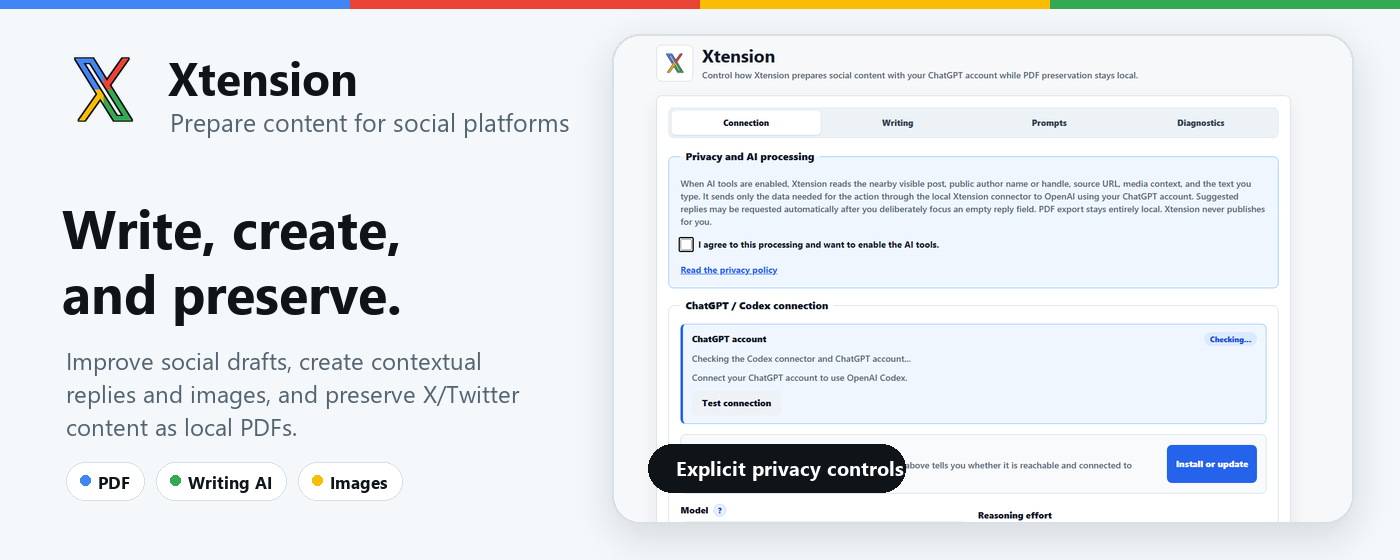
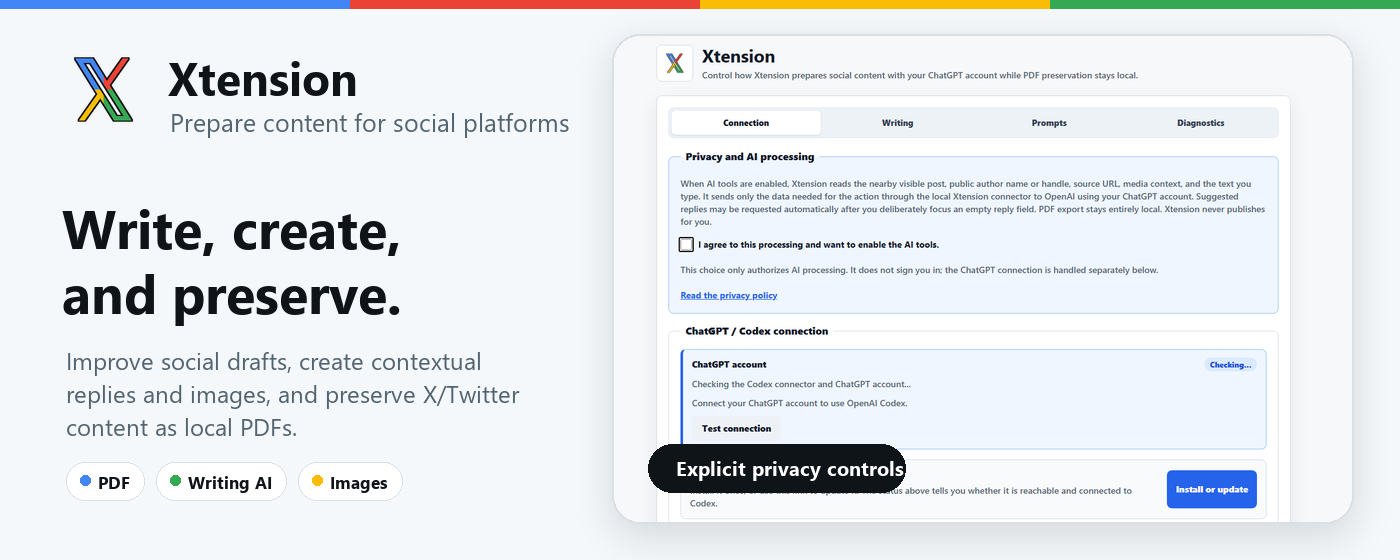
fix: separate X badges from AI consent

diff --git a/site/public/index.html b/site/public/index.html
@@ -53,7 +53,7 @@
         <div class="wrap">
           <p class="eyebrow">
             <span class="dot"></span>
-            <span data-i18n="heroEyebrow">Version 0.6.28 · Chrome · Edge · Firefox</span>
+            <span data-i18n="heroEyebrow">Version 0.6.29 · Chrome · Edge · Firefox</span>
           </p>
           <h1 data-i18n="heroTitle">
             Reply better across social platforms,<br />with your own ChatGPT account.
@@ -365,19 +365,19 @@
 
           <h3 class="group-title" data-i18n="dlStep1">1 · The browser extension</h3>
           <div class="dl-grid">
-            <a class="dl-card" href="https://github.com/JoDevelop1/xtension/releases/download/v0.6.28/xtension-chrome-v0.6.28.zip">
+            <a class="dl-card" href="https://github.com/JoDevelop1/xtension/releases/download/v0.6.29/xtension-chrome-v0.6.29.zip">
               <span class="dl-name">Chrome</span>
-              <span class="dl-meta" data-i18n="dlChromeMeta">Brave · Vivaldi · Opera · v0.6.28</span>
+              <span class="dl-meta" data-i18n="dlChromeMeta">Brave · Vivaldi · Opera · v0.6.29</span>
               <span class="dl-action" data-i18n="dlZip">Download .zip</span>
             </a>
-            <a class="dl-card" href="https://github.com/JoDevelop1/xtension/releases/download/v0.6.28/xtension-edge-v0.6.28.zip">
+            <a class="dl-card" href="https://github.com/JoDevelop1/xtension/releases/download/v0.6.29/xtension-edge-v0.6.29.zip">
               <span class="dl-name">Edge</span>
-              <span class="dl-meta">v0.6.28</span>
+              <span class="dl-meta">v0.6.29</span>
               <span class="dl-action" data-i18n="dlZip2">Download .zip</span>
             </a>
-            <a class="dl-card" href="https://github.com/JoDevelop1/xtension/releases/download/v0.6.28/xtension-firefox-v0.6.28.zip">
+            <a class="dl-card" href="https://github.com/JoDevelop1/xtension/releases/download/v0.6.29/xtension-firefox-v0.6.29.zip">
               <span class="dl-name">Firefox</span>
-              <span class="dl-meta">v0.6.28</span>
+              <span class="dl-meta">v0.6.29</span>
               <span class="dl-action" data-i18n="dlZip3">Download .zip</span>
             </a>
           </div>
@@ -415,7 +415,7 @@
           </p>
           <a class="btn btn-primary btn-lg" href="https://github.com/JoDevelop1/xtension/releases/latest/download/XtensionBridgeSetup.exe">
             <span data-i18n="dlConnectorBtn">Download XtensionBridgeSetup.exe</span>
-            <span class="btn-sub" data-i18n="dlConnectorBtnSub">Windows · v0.6.28 · from GitHub</span>
+            <span class="btn-sub" data-i18n="dlConnectorBtnSub">Windows · v0.6.29 · from GitHub</span>
           </a>
 
           <div class="checksums">
@@ -437,21 +437,21 @@
                   <td><code>3fd05664d0c76f4dac998e3187549a0200b43dab5335c6f814ef5a6134894471</code></td>
                 </tr>
                 <tr>
-                  <td>xtension-chrome-v0.6.28.zip</td>
+                  <td>xtension-chrome-v0.6.29.zip</td>
                   <td><code>f806e089bde166f6ffde99836098e4d6cd56c16d6f1f03b27abb6b7467bae32a</code></td>
                 </tr>
                 <tr>
-                  <td>xtension-edge-v0.6.28.zip</td>
+                  <td>xtension-edge-v0.6.29.zip</td>
                   <td><code>f806e089bde166f6ffde99836098e4d6cd56c16d6f1f03b27abb6b7467bae32a</code></td>
                 </tr>
                 <tr>
-                  <td>xtension-firefox-v0.6.28.zip</td>
+                  <td>xtension-firefox-v0.6.29.zip</td>
                   <td><code>0cc362f1aea179f586a4525df0bcefdcacc2fc2e56e8d53308a1d52d1d188d98</code></td>
                 </tr>
               </tbody>
             </table>
             <p class="fineprint">
-              <a href="https://github.com/JoDevelop1/xtension/releases/download/v0.6.28/SHA256SUMS.txt" data-i18n="checksumRaw">Raw checksum file</a>
+              <a href="https://github.com/JoDevelop1/xtension/releases/download/v0.6.29/SHA256SUMS.txt" data-i18n="checksumRaw">Raw checksum file</a>
               ·
               <a href="/version.json" data-i18n="versionJson">version.json</a>
             </p>

diff --git a/site/public/privacy.html b/site/public/privacy.html
@@ -23,7 +23,8 @@
         <p>Xtension does not sell data, use data for advertising or creditworthiness, or send data to a server owned by the developer. The extension has no analytics or tracking SDK. Optional AI features transmit the required request data to OpenAI through a connector on the user's computer.</p>
 
         <h2>Consent and control</h2>
-        <p>AI processing is disabled by default. Before supported-page content, a draft, URL, author identifier, relationship context, or image is processed for AI features, the user must affirmatively accept the disclosure in Xtension's options and enable the AI tools. Consent can be withdrawn at any time.</p>
+        <p>AI processing is disabled by default. Before supported-page content, a draft, URL, author identifier, or image is processed for AI features, the user must affirmatively accept the disclosure in Xtension's options and enable the AI tools. Consent can be withdrawn at any time.</p>
+        <p>Accepting this disclosure does not sign the user into ChatGPT. Account authentication is a separate optional step handled by the local connector and the official OpenAI sign-in flow; Xtension never receives the user's password or OAuth token.</p>
         <p>After consent, Xtension may request contextual reply suggestions when the user deliberately focuses an empty supported reply field. Other AI operations start when the user chooses an Xtension action. Results remain editable drafts; Xtension never activates a platform's final publish control.</p>
         <p>PDF export requires no AI consent, runs locally in the browser, and is never sent to OpenAI or the developer.</p>
 
@@ -32,7 +33,7 @@
           <li><strong>Website content:</strong> visible posts, comments, articles, quoted content, same-author threads, drafts, instructions, public images, and video thumbnails needed for the selected feature.</li>
           <li><strong>Public identifiers:</strong> display names and account handles shown next to that content.</li>
           <li><strong>Current and source URLs:</strong> only for the supported page or selected public post; Xtension does not build a browsing profile.</li>
-          <li><strong>X/Twitter relationship context:</strong> public following, followed-by, or mutual status already present in X/Twitter responses. Its observation is disabled before AI consent.</li>
+          <li><strong>X/Twitter relationship context:</strong> public following, followed-by, or mutual status already present in X/Twitter responses, processed locally to display timeline badges independently of the optional AI tools.</li>
           <li><strong>Local settings and diagnostics:</strong> consent and feature settings plus a bounded log of operation names, timestamps, durations, text lengths, and errors. Full content, prompts, passwords, cookies, tokens, and API keys are excluded from diagnostics.</li>
         </ul>
         <p>Xtension contains no microphone, camera, audio-capture, cookie-reading, password-reading, private-message, or platform-authentication-token code.</p>

diff --git a/src/main-world.js b/src/main-world.js
@@ -25,11 +25,8 @@
 
   const FOLLOWING_MAP_ATTRIBUTE = "data-xtension-following-map";
   const FOLLOWING_MAP_EVENT = "xtension-following-map";
-  const AI_STATE_ATTRIBUTE = "data-xtension-ai-processing-enabled";
-  const AI_STATE_EVENT = "xtension-ai-processing-state";
   const relationshipByHandle = new Map();
   let followingMapPublishQueued = false;
-  let relationshipObservationEnabled = false;
 
   // Les reponses GraphQL de X contiennent deja la relation entre le compte
   // connecte et les auteurs presents dans la timeline. On ne conserve que le
@@ -82,7 +79,7 @@
   }
 
   function collectFollowingRelationships(payload) {
-    if (!relationshipObservationEnabled || !payload || typeof payload !== "object") {
+    if (!payload || typeof payload !== "object") {
       return false;
     }
 
@@ -167,7 +164,7 @@
   }
 
   function inspectFetchResponse(response, requestedUrl) {
-    if (!relationshipObservationEnabled || !response?.ok || !isRelationshipResponseUrl(response.url || requestedUrl)) {
+    if (!response?.ok || !isRelationshipResponseUrl(response.url || requestedUrl)) {
       return;
     }
     const contentType = String(response.headers?.get?.("content-type") || "");
@@ -211,7 +208,7 @@
     Object.defineProperty(observedOpen, "__xtensionFollowingObserver", { value: true });
     prototype.open = observedOpen;
     prototype.send = function observedSend(...args) {
-      if (relationshipObservationEnabled && isRelationshipResponseUrl(this.__xtensionFollowingUrl)) {
+      if (isRelationshipResponseUrl(this.__xtensionFollowingUrl)) {
         this.addEventListener("load", () => {
           try {
             if (this.status < 200 || this.status >= 300) {
@@ -230,21 +227,8 @@
     };
   }
 
-  function syncRelationshipObservation() {
-    const enabled = document.documentElement?.getAttribute?.(AI_STATE_ATTRIBUTE) === "1";
-    relationshipObservationEnabled = enabled;
-    if (enabled) {
-      installRelationshipFetchObserver();
-      installRelationshipXhrObserver();
-      return;
-    }
-    relationshipByHandle.clear();
-    document.documentElement?.removeAttribute?.(FOLLOWING_MAP_ATTRIBUTE);
-    document.dispatchEvent(new Event(FOLLOWING_MAP_EVENT));
-  }
-
-  document.addEventListener(AI_STATE_EVENT, syncRelationshipObservation, false);
-  syncRelationshipObservation();
+  installRelationshipFetchObserver();
+  installRelationshipXhrObserver();
 
   // Remonte la fibre React depuis l'élément éditeur jusqu'aux props du composant
   // DraftEditor (celui qui porte editorState + onChange).

diff --git a/src/content.js b/src/content.js
@@ -17,8 +17,6 @@
   const FOLLOWING_BADGE_ATTRIBUTE = "data-xtension-following-badge";
   const FOLLOWING_MAP_ATTRIBUTE = "data-xtension-following-map";
   const FOLLOWING_MAP_EVENT = "xtension-following-map";
-  const MAIN_WORLD_AI_STATE_ATTRIBUTE = "data-xtension-ai-processing-enabled";
-  const MAIN_WORLD_AI_STATE_EVENT = "xtension-ai-processing-state";
   const DRAFT_ACTIONS_SELECTOR = "[data-xtension-draft-actions]";
   const DRAFT_ACTIONS_ATTRIBUTE = "data-xtension-draft-actions";
   const DRAFT_ACTIONS_HOST_SELECTOR = "[data-xtension-draft-actions-host]";
@@ -171,7 +169,6 @@
   let statusPageScrollToken = 0;
   let lastReplyImageReference = null;
   const followingStatusByHandle = new Map();
-  let aiStorageListenerInstalled = false;
 
   function start() {
     if (extensionContextInvalidated) {
@@ -189,8 +186,6 @@
     document.addEventListener("pointerup", handleDraftActionPointerUp, true);
     document.addEventListener("pointerup", scheduleEnhancementUnlessNativeMediaControl, true);
     document.addEventListener(FOLLOWING_MAP_EVENT, handleFollowingMapUpdate, false);
-    syncMainWorldAiProcessingState();
-    installAiStorageListener();
     handleFollowingMapUpdate();
     enhancePage();
 
@@ -4988,24 +4983,6 @@
     const stored = await storageGet({ replyAiConfig: null });
     const config = stored?.replyAiConfig;
     return config?.enabled === true && Number(config?.dataProcessingConsentVersion) === 1;
-  }
-
-  async function syncMainWorldAiProcessingState() {
-    const enabled = await isAiProcessingEnabled();
-    const root = document.documentElement;
-    if (!root) return;
-    root.setAttribute(MAIN_WORLD_AI_STATE_ATTRIBUTE, enabled ? "1" : "0");
-    document.dispatchEvent(new Event(MAIN_WORLD_AI_STATE_EVENT));
-  }
-
-  function installAiStorageListener() {
-    if (aiStorageListenerInstalled || !EXTENSION_API?.storage?.onChanged?.addListener) return;
-    aiStorageListenerInstalled = true;
-    EXTENSION_API.storage.onChanged.addListener((changes, areaName) => {
-      if (areaName === "local" && changes?.replyAiConfig) {
-        syncMainWorldAiProcessingState();
-      }
-    });
   }
 
   async function getDraftActionTiming(action) {

diff --git a/scripts/locales.js b/scripts/locales.js
@@ -643,6 +643,7 @@ const replyFeatureDefaultMessages = {
   optionsPrivacyTitle: "Privacy and AI processing",
   optionsPrivacyDisclosure: "When AI tools are enabled, Xtension reads the nearby visible post, public author name or handle, source URL, media context, and the text you type. It sends only the data needed for the action through the local Xtension connector to OpenAI using your ChatGPT account. Suggested replies may be requested automatically after you deliberately focus an empty reply field. PDF export stays entirely local. Xtension never publishes for you.",
   optionsPrivacyConsent: "I agree to this processing and want to enable the AI tools.",
+  optionsPrivacyConsentHelp: "This choice only authorizes AI processing. It does not sign you in; the ChatGPT connection is handled separately below.",
   optionsPrivacyLink: "Read the privacy policy",
   followingBadgeFollowing: "Following",
   followingBadgeNotFollowing: "Not following",
@@ -928,6 +929,7 @@ Object.assign(replyFeatureMessages.fr, {
   optionsPrivacyTitle: "Confidentialité et traitement par l'IA",
   optionsPrivacyDisclosure: "Lorsque les outils IA sont activés, Xtension lit le post visible voisin, le nom ou pseudonyme public de l'auteur, l'URL source, le contexte média et le texte que vous saisissez. Seules les données nécessaires à l'action sont envoyées à OpenAI via le connecteur local Xtension et votre compte ChatGPT. Des suggestions peuvent être demandées automatiquement après votre action volontaire de placer le curseur dans un champ de réponse vide. L'export PDF reste entièrement local. Xtension ne publie jamais à votre place.",
   optionsPrivacyConsent: "J'accepte ce traitement et je souhaite activer les outils IA.",
+  optionsPrivacyConsentHelp: "Ce choix autorise uniquement le traitement par l'IA. Il ne vous connecte pas : la connexion ChatGPT se fait séparément ci-dessous.",
   optionsPrivacyLink: "Lire la politique de confidentialité",
   replyAiConsentRequired: "Consultez et acceptez d'abord l'information sur le traitement des données par l'IA dans les options Xtension.",
   followingBadgeFollowing: "Abonné",

diff --git a/site/public/app.js b/site/public/app.js
@@ -15,7 +15,7 @@ const FR = {
   navPrivacy: 'Confidentialité',
   navDownload: 'Téléchargement',
 
-  heroEyebrow: 'Version 0.6.28 · Chrome · Edge · Firefox',
+  heroEyebrow: 'Version 0.6.29 · Chrome · Edge · Firefox',
   heroTitle: 'Répondez mieux sur vos réseaux,<br />avec votre propre compte ChatGPT.',
   heroLead:
     "Xtension ajoute une barre d'outils de réponse à X/Twitter, Reddit, Facebook, Instagram, Threads, LinkedIn, Bluesky et YouTube : correction, traduction, génération et réponses contextuelles. X conserve en plus l'ImageGen, l'export PDF et les états Non abonné, Abonné ou Mutuel directement dans la timeline. Rien n'est publié automatiquement.",
@@ -127,7 +127,7 @@ const FR = {
   dlLead:
     "Installez l'extension dans votre navigateur. Puis, seulement si vous voulez les fonctions IA, installez le connecteur sous Windows. Tous les téléchargements ci-dessous sont servis par <strong>GitHub Releases</strong>, depuis le dépôt du projet — rien n'est hébergé ailleurs.",
   dlStep1: "1 · L'extension de navigateur",
-  dlChromeMeta: 'Brave · Vivaldi · Opera · v0.6.28',
+  dlChromeMeta: 'Brave · Vivaldi · Opera · v0.6.29',
   dlZip: 'Télécharger le .zip',
   dlZip2: 'Télécharger le .zip',
   dlZip3: 'Télécharger le .zip',
@@ -144,7 +144,7 @@ const FR = {
   dlConnectorLead:
     "Nécessaire uniquement pour les fonctions IA. L'export PDF fonctionne sans. S'installe pour l'utilisateur courant, sans droits administrateur, et démarre automatiquement à l'ouverture de session.",
   dlConnectorBtn: 'Télécharger XtensionBridgeSetup.exe',
-  dlConnectorBtnSub: 'Windows · v0.6.28 · depuis GitHub',
+  dlConnectorBtnSub: 'Windows · v0.6.29 · depuis GitHub',
   checksumTitle: 'Vérifiez ce que vous avez téléchargé',
   checksumLead:
     'Sous Windows, lancez <code>Get-FileHash &lt;fichier&gt; -Algorithm SHA256</code> dans PowerShell et comparez avec la valeur ci-dessous.',

diff --git a/tests/regressions.test.js b/tests/regressions.test.js
@@ -61,6 +61,7 @@ test("AI website-content processing requires a versioned affirmative consent", (
   const social = read("src/social.js");
   assert.match(html, /id="reply-ai-data-consent" type="checkbox"/);
   assert.match(html, /nearby visible post[\s\S]{0,500}OpenAI[\s\S]{0,500}automatically/);
+  assert.match(html, /only authorizes AI processing[\s\S]{0,240}ChatGPT connection is handled separately/);
   assert.match(options, /dataProcessingConsentVersion: consentGranted \? REQUIRED_AI_DATA_CONSENT_VERSION : 0/);
   assert.match(options, /normalized\.enabled = normalized\.dataProcessingConsentVersion === REQUIRED_AI_DATA_CONSENT_VERSION/);
   assert.match(background, /error\.code = consentGranted \? "not_configured" : "consent_required"/);
@@ -68,6 +69,15 @@ test("AI website-content processing requires a versioned affirmative consent", (
   assert.match(social, /await isAiProcessingEnabled\(\)/);
   assert.match(content, /action !== "undo" && action !== "redo" && !\(await isAiProcessingEnabled\(\)\)/);
   assert.match(social, /async function runAction[\s\S]{0,260}await isAiProcessingEnabled\(\)/);
+});
+
+test("X relationship badges remain independent from optional AI consent", () => {
+  const content = read("src/content.js");
+  const mainWorld = read("src/main-world.js");
+  assert.doesNotMatch(content, /MAIN_WORLD_AI_STATE|syncMainWorldAiProcessingState|installAiStorageListener/);
+  assert.doesNotMatch(mainWorld, /AI_STATE_|relationshipObservationEnabled|syncRelationshipObservation/);
+  assert.match(mainWorld, /installRelationshipFetchObserver\(\);\s+installRelationshipXhrObserver\(\);/);
+  assert.match(mainWorld, /function collectFollowingRelationships\(payload\) \{\s+if \(!payload/);
 });
 
 test("the local connector accepts the official Store origin by default, not every extension", () => {

diff --git a/src/options.html b/src/options.html
@@ -32,6 +32,7 @@
               <input id="reply-ai-data-consent" type="checkbox">
               <span data-i18n="optionsPrivacyConsent">I agree to this processing and want to enable the AI tools.</span>
             </label>
+            <p class="field-note" data-i18n="optionsPrivacyConsentHelp">This choice only authorizes AI processing. It does not sign you in; the ChatGPT connection is handled separately below.</p>
             <p class="field-note"><a href="https://xtension.jodevelop.com/privacy.html" target="_blank" rel="noopener noreferrer" data-i18n="optionsPrivacyLink">Read the privacy policy</a></p>
           </fieldset>
 

diff --git a/STORE_SUBMISSION.md b/STORE_SUBMISSION.md
@@ -14,7 +14,7 @@ Official documentation:
 File to upload:
 
 ```text
-dist/xtension-chrome-v0.6.28.zip
+dist/xtension-chrome-v0.6.29.zip
 ```
 
 Assets to provide:
@@ -71,7 +71,7 @@ Xtension does not load or execute remotely hosted code. All JavaScript, CSS, ico
 Host permission justification:
 
 ```text
-The x.com and twitter.com matches are required to add Xtension's preparation and preservation controls: draft tools, image tools, local PDF export, and consent-gated relationship badges. The Reddit, Facebook, Instagram, Threads, LinkedIn, Bluesky, and YouTube matches add the writing toolbar beside recognized post or comment editors and, after affirmative consent, read the nearby visible post when the user invokes assistance or deliberately focuses an empty reply field with contextual suggestions enabled. Private-message routes are excluded. The pbs.twimg.com permission fetches public X/Twitter media referenced by selected content for local PDF or image tools. The localhost:47623 and 127.0.0.1:47623 permissions connect the optional AI tools to the Codex Connector on the user's computer. This does not let the extension execute local commands.
+The x.com and twitter.com matches are required to add Xtension's preparation and preservation controls: draft tools, image tools, local PDF export, and locally computed relationship badges. The Reddit, Facebook, Instagram, Threads, LinkedIn, Bluesky, and YouTube matches add the writing toolbar beside recognized post or comment editors and, after affirmative consent, read the nearby visible post when the user invokes assistance or deliberately focuses an empty reply field with contextual suggestions enabled. Private-message routes are excluded. The pbs.twimg.com permission fetches public X/Twitter media referenced by selected content for local PDF or image tools. The localhost:47623 and 127.0.0.1:47623 permissions connect the optional AI tools to the Codex Connector on the user's computer. This does not let the extension execute local commands.
 ```
 
 Bridge download disclosure:
@@ -113,7 +113,7 @@ Official documentation:
 File to upload:
 
 ```text
-dist/xtension-edge-v0.6.28.zip
+dist/xtension-edge-v0.6.29.zip
 ```
 
 Assets to provide:
@@ -134,7 +134,7 @@ Official documentation:
 File to use:
 
 ```text
-dist/xtension-firefox-v0.6.28.zip
+dist/xtension-firefox-v0.6.29.zip
 ```
 
 For a listed publication or signature, use `web-ext` from the Firefox folder:
@@ -184,7 +184,7 @@ See:
 - Verify that clicking the toolbar icon opens the dedicated Xtension settings page directly (the intermediate popup was removed in 0.6.3).
 - Verify that AI tools fail clearly when Xtension Bridge is not running.
 - Verify on a fresh profile and an upgraded profile that AI requests are blocked until the disclosure is accepted, while PDF export still works.
-- Verify that revoking consent stops automatic contextual suggestions and X relationship-response inspection on the current page.
+- Verify that revoking consent stops AI draft actions and automatic contextual suggestions while X relationship badges continue to work locally.
 - Verify that the Codex Connector detects the installed Codex CLI and the connected ChatGPT account.
 - Verify that `XtensionBridge.exe`, `XtensionBridgeHost.exe`, and `XtensionBridgeSetup.exe` are signed before publishing the Windows installer.
 - Verify that the browser manifest requests only `storage`, the documented social-platform page matches, the exact default bridge hosts, and public X/Twitter media host access.

diff --git a/PRIVACY.md b/PRIVACY.md
@@ -8,7 +8,9 @@ Xtension does not sell data, use data for advertising or creditworthiness, or se
 
 ## Consent and Control
 
-AI processing is disabled by default. Before any supported-page content, draft, URL, author identifier, relationship context, or image is processed for AI features, the user must affirmatively accept the disclosure shown in Xtension's options and enable the AI tools. A user can withdraw consent at any time by disabling the AI tools or clearing that consent in the options.
+AI processing is disabled by default. Before any supported-page content, draft, URL, author identifier, or image is processed for AI features, the user must affirmatively accept the disclosure shown in Xtension's options and enable the AI tools. A user can withdraw consent at any time by disabling the AI tools or clearing that consent in the options.
+
+Accepting this disclosure does not sign the user into ChatGPT. Account authentication is a separate optional step handled by the local connector and the official OpenAI sign-in flow; Xtension never receives the user's password or OAuth token.
 
 After consent, Xtension may request contextual reply suggestions when the user deliberately focuses an empty supported reply field. Other AI operations begin when the user chooses an Xtension correction, translation, generation, suggestion, or image action. Xtension inserts results as editable drafts and never activates a platform's final publish or submit control.
 
@@ -21,7 +23,7 @@ Depending on the feature used, Xtension may process these categories:
 - **Website content:** visible text from a nearby post, comment, article, reply composer, quoted post, or same-author thread; the user's draft or instruction; and public images or video thumbnails associated with that content.
 - **Identifiers contained in website content:** public display names and account handles visible next to the selected content.
 - **Current-page and source URLs:** URLs for the supported page or selected public post, used to preserve sources and give AI the relevant context. Xtension does not build a browsing-history profile.
-- **Public relationship context on X/Twitter:** following, followed-by, or mutual status already present in X/Twitter responses, used to display timeline badges. This observation remains off until AI processing has been accepted and enabled.
+- **Public relationship context on X/Twitter:** following, followed-by, or mutual status already present in X/Twitter responses, processed locally to display timeline badges independently of the optional AI tools.
 - **Extension settings:** consent state, AI enablement, model, reasoning effort, writing preferences, loopback connector URL, and an optional local connector token, stored in browser extension storage.
 - **Diagnostic metadata:** up to 160 local entries containing operation names, timestamps, durations, text lengths, routing information, and error codes. Full post text, drafts, prompts, account tokens, and API keys are excluded.
 

diff --git a/CHANGELOG.md b/CHANGELOG.md
@@ -1,9 +1,15 @@
 # Changelog
 
+## v0.6.29
+
+- Keeps X/Twitter following, followed-by, and mutual badges active independently of the optional AI consent and connection flow.
+- Clarifies in Options that accepting AI data processing does not sign the user into ChatGPT; account connection remains a separate step through the local connector and official OpenAI sign-in.
+- Retains the v0.6.28 Chrome Web Store privacy, origin-restriction, listing, and asset hardening without changing PDF export or AI drafting behavior after opt-in.
+
 ## v0.6.28
 
 - Keeps the X/Twitter PDF export intact and presents PDF preservation, AI writing, and image generation as one focused social-content workflow for Chrome Web Store review.
-- Adds a prominent, versioned opt-in before any supported-page content, draft, public author identifier, URL, relationship context, or image can be processed by AI. Existing installations are asked to consent again; PDF export remains available without consent.
+- Adds a prominent, versioned opt-in before supported-page content, drafts, public author identifiers, URLs, or images can be processed by AI. Existing installations are asked to consent again; PDF export remains available without consent. X relationship observation was temporarily tied to the same opt-in in this release and separated again in v0.6.29.
 - Restricts the local Codex Connector to Xtension's official Chrome Web Store origin by default. Explicit development or alternate-browser origins require both configuration and a shared local secret.
 - Publishes an accurate Limited Use privacy policy and conservative Chrome data-type declarations, including third-party OpenAI processing and automatic suggestions after deliberate focus in an empty reply field.
 - Replaces illustrated Store screenshots with automated 1280x800 captures of the real options and social-reply interfaces, and applies the recommended transparent padding to the 128px extension icon.

diff --git a/README.md b/README.md
@@ -136,9 +136,9 @@ See [STORE_SUBMISSION.md](STORE_SUBMISSION.md).
 
 Generated archives:
 
-- `dist/xtension-chrome-v0.6.28.zip`
-- `dist/xtension-edge-v0.6.28.zip`
-- `dist/xtension-firefox-v0.6.28.zip`
+- `dist/xtension-chrome-v0.6.29.zip`
+- `dist/xtension-edge-v0.6.29.zip`
+- `dist/xtension-firefox-v0.6.29.zip`
 - `dist/SHA256SUMS.txt`
 - `dist/XtensionBridgeSetup.exe`
 - `dist/XtensionBridgeSetup.SHA256.txt`
@@ -149,7 +149,7 @@ See [RELEASES.md](RELEASES.md) to install Xtension from a GitHub release while s
 
 ## Permissions
 
-- `https://x.com/*`, `https://*.x.com/*`, `https://twitter.com/*`, `https://*.twitter.com/*`: add X/Twitter content-preparation controls, local PDF export, consent-gated reply suggestions, and consent-gated timeline relationship badges.
+- `https://x.com/*`, `https://*.x.com/*`, `https://twitter.com/*`, `https://*.twitter.com/*`: add X/Twitter content-preparation controls, local PDF export, consent-gated reply suggestions, and locally computed timeline relationship badges that remain independent of AI consent.
 - Reddit, Facebook, Instagram, Threads, LinkedIn, Bluesky, and YouTube page matches: add the writing toolbar beside recognized post/comment editors. Nearby visible context is read for AI only after affirmative consent and a user action or deliberate focus in an empty supported reply field.
 - `https://pbs.twimg.com/*`: fetch public X/Twitter images, avatars, card images, and video preview thumbnails referenced by the selected content.
 - `http://localhost:47623/*`, `http://127.0.0.1:47623/*`: connect to the Xtension Codex Connector running on the user's computer on the default loopback port.
